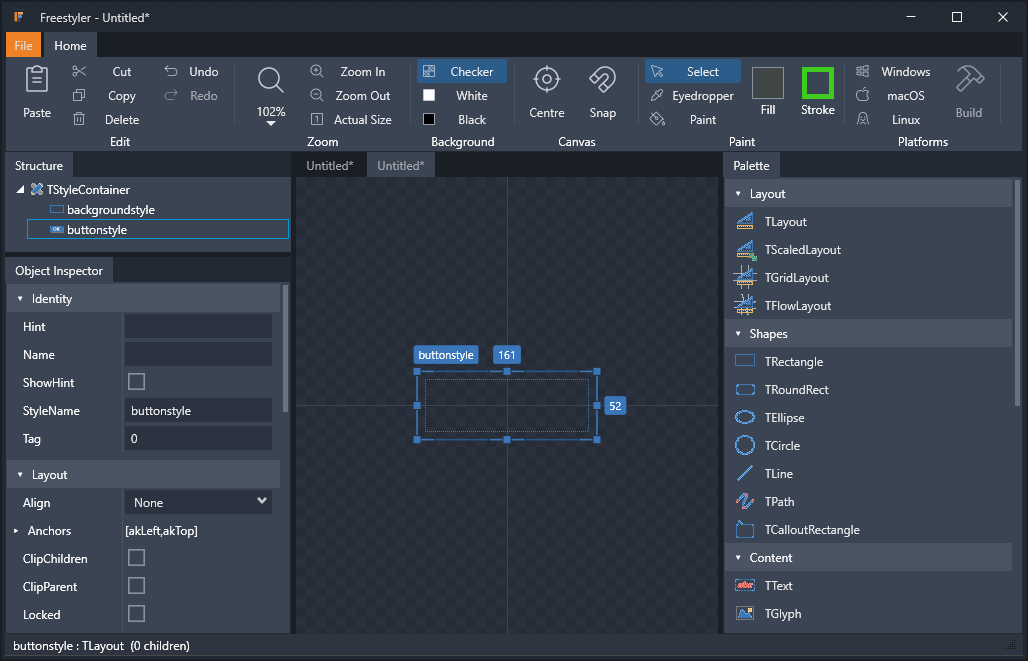
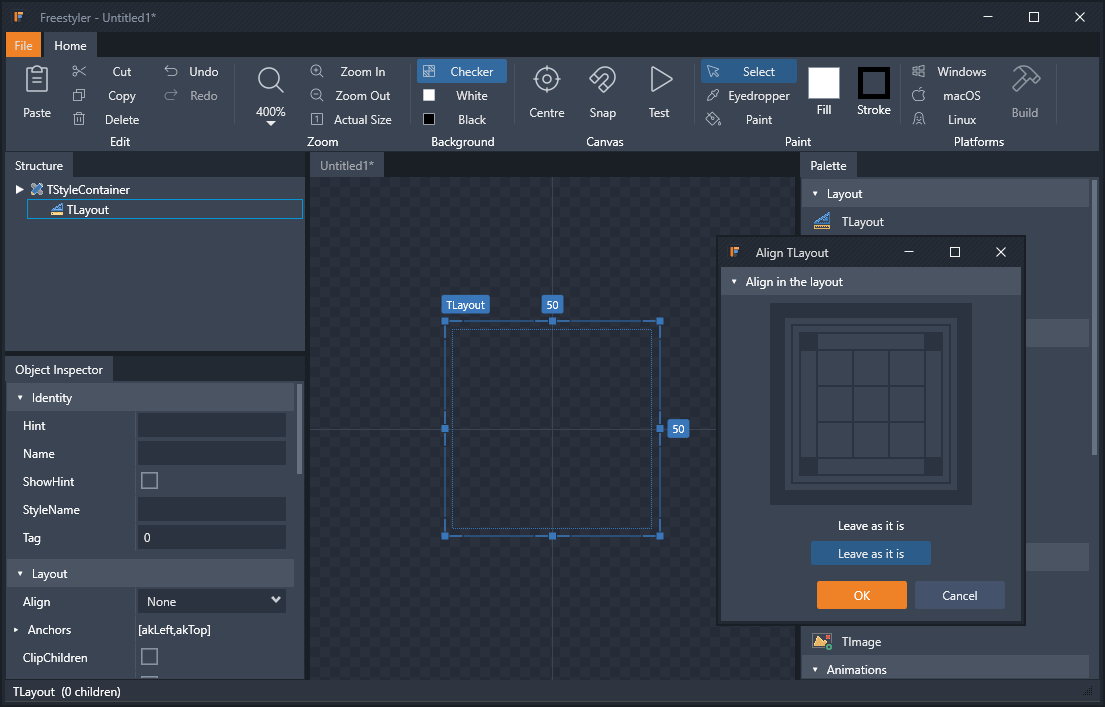
README: new screenshot

diff --git a/README.md b/README.md
@@ -6,7 +6,7 @@ application or inside RAD Studio 13, where it opens whenever you edit a TStyleBo
 
 **[Download the latest Freestyler](https://github.com/GrooverMD/Freestyler-Releases/releases/latest)**
 
-![Freestyler editing a button style](docs/freestyler.png)
+![Freestyler aligning a TLayout in its style container](docs/freestyler.png)
 
 ## What's new
 
